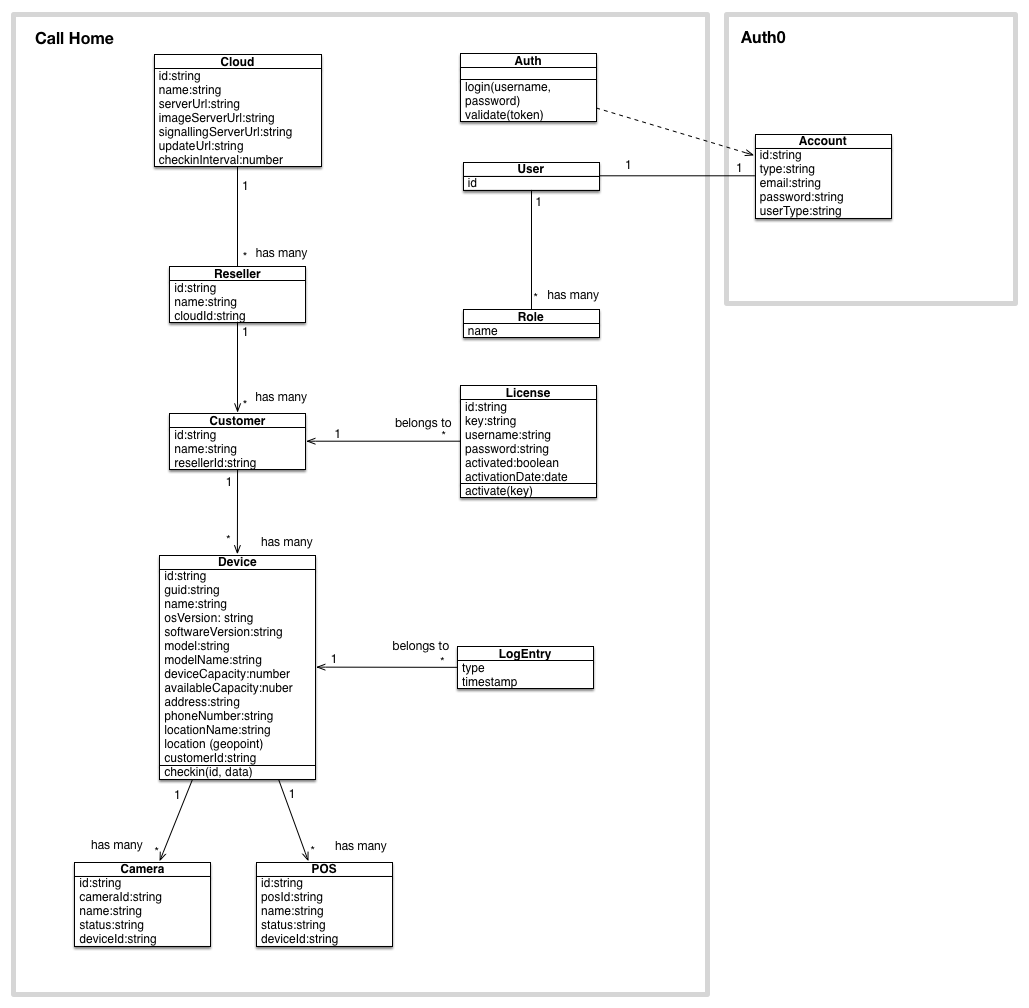
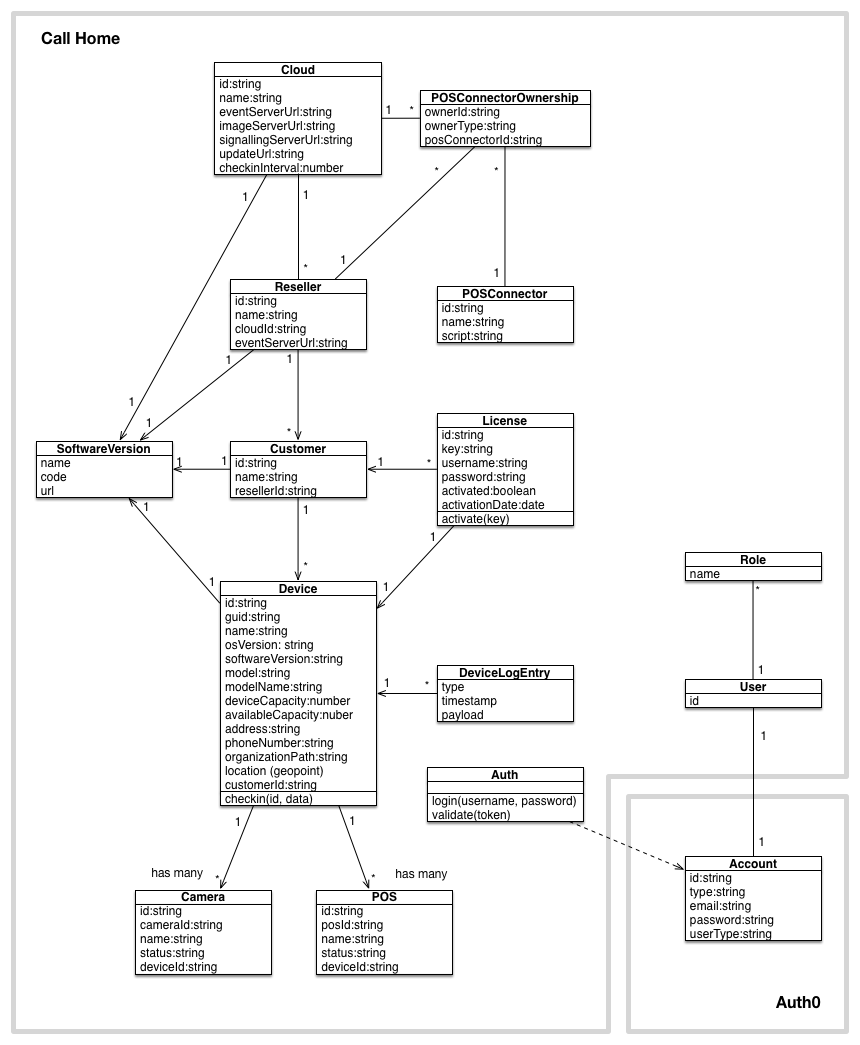
Model refactoring:
model name change: LogEntry -> DeviceLogEntry (diagram only)
added new Software model with references from Cloud, Reseller, Customer, Device
renamed Device.softwareVersion -> Device.currentSoftwareVersion
changed Cloud.serverUrl -> eventServerUrl
added Reseller.eventServerUrl
added Reseller.imageServerUrl
added Reseller.checkinInterval
added Customer.checkinInterval
added Device.checkinInterval
updated License relationship (diagram only)
changed Device.locationName -> organizationPath
added Device.lastCheckIn (date)
added Customer.licenses hasMany relationship
added new POSConnector model and polymorphic hasMany relationships with Cloud and Reseller via POSConnectorOwnership

diff --git a/server/create-sample-data.js b/server/create-sample-data.js
@@ -12,6 +12,9 @@ module.exports = function(app, doneCallback) {
   async.auto({
     destroyAll: function(cb) {
       logger.debug('destroying all existing data...');
+      app.models.SoftwareVersion.destroyAll();
+      app.models.POSConnector.destroyAll();
+      app.models.POSConnectorOwnership.destroyAll();
       app.models.Cloud.destroyAll();
       app.models.Reseller.destroyAll();
       app.models.Customer.destroyAll();
@@ -21,13 +24,23 @@ module.exports = function(app, doneCallback) {
       app.models.License.destroyAll();
       cb(null);
     },
-    clouds: ['destroyAll', function(cb, results) {
-      createClouds(cb);
+    softwareVersions: ['destroyAll', function(cb, results) {
+      createSoftwareVersions(cb);
+    }],
+    clouds: ['softwareVersions', function(cb, results) {
+      createClouds(cb, results);
     }],
     resellers: ['clouds', function (cb, results) {
       createResellers(cb, results);
     }],
-    customers: ['resellers', function (cb, results) {
+    posConnectors: ['resellers', function(cb, results) {
+      createPOSConnectors(cb, results);
+    }],
+    posConnectorsOwnerships: ['posConnectors', function(cb, results) {
+      associatePOSConnectors(cb, results);
+    }],
+    // customers: ['resellers', function (cb, results) {
+    customers: ['posConnectorsOwnerships', function (cb, results) {
       createCustomers(cb, results);
     }],
     licenses: ['customers', function (cb, results) {
@@ -39,16 +52,41 @@ module.exports = function(app, doneCallback) {
     cameras: ['devices', function (cb, results) {
       createCameras(cb, results);
     }],
-    posConnectors: ['devices', function (cb, results) {
+    posDevices: ['devices', function (cb, results) {
       createPOSDevices(cb, results);
     }],
-    result: ['posConnectors', function (cb, results) {
+    result: ['posDevices', function (cb, results) {
       doneCallback();
     }]
   });
 
-  function createClouds(cb) {
+  function createSoftwareVersions(cb) {
+    logger.debug('creating software versions...');
+    datastore.automigrate('SoftwareVersion', function(err) {
+      if (err) {
+        logger.error(err);
+        return cb(err);
+      }
+      app.models.SoftwareVersion.create([
+        { name: 'Version 1.0', 
+          code: 1, 
+          url: 'http://update.solinkcloud.net/version-1.0'},
+        { name: 'Version 1.1 RC1', 
+          code: 2, 
+          url: 'http://update.solinkcloud.net/version-1.1-RC1'},
+        { name: 'Version 1.1 RC2', 
+          code: 3, 
+          url: 'http://update.solinkcloud.net/version-1.1-RC2'},
+        { name: 'Version 1.2 Test', 
+          code: 4, 
+          url: 'http://update.solinkcloud.net/version-1.2-Test'}
+      ], cb);
+    });
+  }
+
+  function createClouds(cb, results) {
     logger.debug('creating clouds...');
+
     datastore.automigrate('Cloud', function(err) {
       if (err) {
         logger.error(err);
@@ -56,17 +94,21 @@ module.exports = function(app, doneCallback) {
       }
       app.models.Cloud.create([
         { name: 'Solink', 
-          serverUrl: 'http://api.solinkcloud.net', 
+          eventServerUrl: 'http://api.solinkcloud.net', 
           imageServerUrl: 'http://images.solinkcloud.net', 
           signallingServerUrl: 'http://signaller.solinkcloud.net', 
           updateUrl: 'http://update.solinkcloud.net', 
-          checkinInterval: 3600},
+          checkinInterval: 3600,
+          softwareVersionId: results.softwareVersions[0].id,
+
+        },
         { name: 'Solink APAC', 
-          serverUrl: 'http://api.apac.solinkcloud.net', 
+          eventServerUrl: 'http://api.apac.solinkcloud.net', 
           imageServerUrl: 'http://images.apac.solinkcloud.net', 
           signallingServerUrl: 'http://signaller.apac.solinkcloud.net', 
           updateUrl: 'http://update.solinkcloud.net', 
-          checkinInterval: 3600},
+          checkinInterval: 3600,
+          softwareVersionId: results.softwareVersions[0].id},
       ], cb);
     });
   }
@@ -79,9 +121,54 @@ module.exports = function(app, doneCallback) {
         return cb(err);
       }
       app.models.Reseller.create([
-        {name: 'Reseller 1', cloudId: results.clouds[0].id},
-        {name: 'Reseller 2', cloudId: results.clouds[0].id},
+        {name: 'Reseller 1', cloudId: results.clouds[0].id, softwareVersionId: results.softwareVersions[1].id},
+        {name: 'Reseller 2', cloudId: results.clouds[0].id, checkinInterval: 3000},
         {name: 'Australian Reseller 1', cloudId: results.clouds[1].id},
+      ], cb);
+    });
+  }
+
+  function createPOSConnectors(cb, results) {
+    logger.debug('creating POS connectors...');
+    datastore.automigrate('POSConnector', function(err) {
+      if (err) {
+        logger.error(err);
+        return cb(err);
+      }
+      app.models.POSConnector.create([
+        { name: 'POS Brew Connector', 
+          script: 'console.log(String.fromCharCode(0xD83C, 0xDF7A));'},
+        { name: 'POS MoBrew Connector`', 
+          script: 'console.log(String.fromCharCode(0xD83C, 0xDF7B));'},
+        { name: 'POS 2MuchBrew Connector', 
+          script: 'console.log(String.fromCharCode(0xD83D, 0xDE32));'}
+      ], cb);
+    });
+  }
+
+  function associatePOSConnectors(cb, results) {
+    logger.debug('associating POS connectors...');
+    datastore.automigrate('POSConnectorOwnership', function(err) {
+      if (err) {
+        logger.error(err);
+        return cb(err);
+      }
+      app.models.POSConnectorOwnership.create([
+        { ownerId: results.clouds[0].id, 
+          ownerType: 'Cloud',
+          posConnectorId: results.posConnectors[0].id},
+        { ownerId: results.clouds[1].id, 
+          ownerType: 'Cloud',
+          posConnectorId: results.posConnectors[0].id},
+        { ownerId: results.resellers[0].id, 
+          ownerType: 'Reseller',
+          posConnectorId: results.posConnectors[1].id},
+        { ownerId: results.resellers[1].id, 
+          ownerType: 'Reseller',
+          posConnectorId: results.posConnectors[2].id},
+        { ownerId: results.resellers[2].id, 
+          ownerType: 'Reseller',
+          posConnectorId: results.posConnectors[2].id}
       ], cb);
     });
   }
@@ -94,8 +181,8 @@ module.exports = function(app, doneCallback) {
         return cb(err);
       }
       app.models.Customer.create([
-        {name: 'Customer 1', resellerId: results.resellers[0].id, id: 1},
-        {name: 'Customer 2', resellerId: results.resellers[1].id, id: 2},
+        {name: 'Customer 1', resellerId: results.resellers[0].id, id: 1, softwareVersionId: results.softwareVersions[2].id},
+        {name: 'Customer 2', resellerId: results.resellers[1].id, id: 2, checkinInterval: 2400},
         {name: 'Customer 3', resellerId: results.resellers[2].id, id: 3},
       ], cb);
     });
@@ -109,8 +196,8 @@ module.exports = function(app, doneCallback) {
         return cb(err);
       }
       app.models.Device.create([
-        {guid: uuid.v1(), name: 'Device 1', customerId: results.customers[0].id},
-        {guid: uuid.v1(), name: 'Device 2', customerId: results.customers[1].id},
+        {guid: uuid.v1(), name: 'Device 1', customerId: results.customers[0].id, softwareVersionId: results.softwareVersions[3].id},
+        {guid: uuid.v1(), name: 'Device 2', customerId: results.customers[1].id, checkinInterval: 2000},
         {guid: uuid.v1(), name: 'Device 3', customerId: results.customers[2].id},
       ], cb);
     });

diff --git a/server/test/rest-api.test.js b/server/test/rest-api.test.js
@@ -127,7 +127,7 @@ describe('REST', function() {
 
       var deviceCheckinData = {
         guid: '7DB02DCF-4EA9-4177-A256-42BCFD511E90',
-        locationName: 'Tim Hortons',
+        organizationPath: '/Canada/Ontario/Ottawa/TH-1582',
         address: '479 March Road, Kanata, ON, K2K',
         location: {
             longitude: -75.9087814,
@@ -177,7 +177,7 @@ describe('REST', function() {
           .end(function(err, res) {
             if (err) throw err;
 
-            assert(res.body.serverUrl, 'must have a serverUrl');
+            assert(res.body.eventServerUrl, 'must have an eventServerUrl');
             assert(res.body.imageServerUrl, 'must have a imageServerUrl');
             assert(res.body.signallingServerUrl, 'must have a signallingServerUrl');
             assert(res.body.updateUrl, 'must have a updateUrl');

diff --git a/common/models/device.js b/common/models/device.js
@@ -101,7 +101,7 @@ module.exports = function(Device) {
         device.updateAttributes({
             id: deviceData.id,
             guid: deviceData.guid,
-            locationName: deviceData.locationName,
+            organizationPath: deviceData.organizationPath,
             address: deviceData.address
         }, function(err, res) {
             if (err) {
@@ -154,7 +154,7 @@ module.exports = function(Device) {
             }
             
             var result = {
-                serverUrl: cloud.serverUrl,
+                eventServerUrl: cloud.eventServerUrl,
                 imageServerUrl: cloud.imageServerUrl,
                 signallingServerUrl: cloud.signallingServerUrl,
                 updateUrl: cloud.updateUrl,

diff --git a/common/models/posConnectorOwnership.js b/common/models/posConnectorOwnership.js
@@ -1,0 +1,10 @@
+var uuid = require('node-uuid');
+
+module.exports = function(POSConnectorOwnership) {
+	POSConnectorOwnership.observe('before save', function addId(ctx, next) {
+		if (ctx.instance && !ctx.instance.id) {
+			ctx.instance.id = uuid.v1();
+		}
+		next();
+	});
+};

diff --git a/common/models/softwareVersion.js b/common/models/softwareVersion.js
@@ -1,0 +1,12 @@
+var uuid = require('node-uuid');
+
+module.exports = function(SoftwareVersion) {
+
+	SoftwareVersion.observe('before save', function addId(ctx, next) {
+		if (ctx.instance && !ctx.instance.id) {
+			ctx.instance.id = uuid.v1();
+		}
+		next();
+	});
+
+};

diff --git a/common/models/posConnector.js b/common/models/posConnector.js
@@ -1,0 +1,12 @@
+var uuid = require('node-uuid');
+
+module.exports = function(POSConnector) {
+
+	POSConnector.observe('before save', function addId(ctx, next) {
+		if (ctx.instance && !ctx.instance.id) {
+			ctx.instance.id = uuid.v1();
+		}
+		next();
+	});
+
+};
